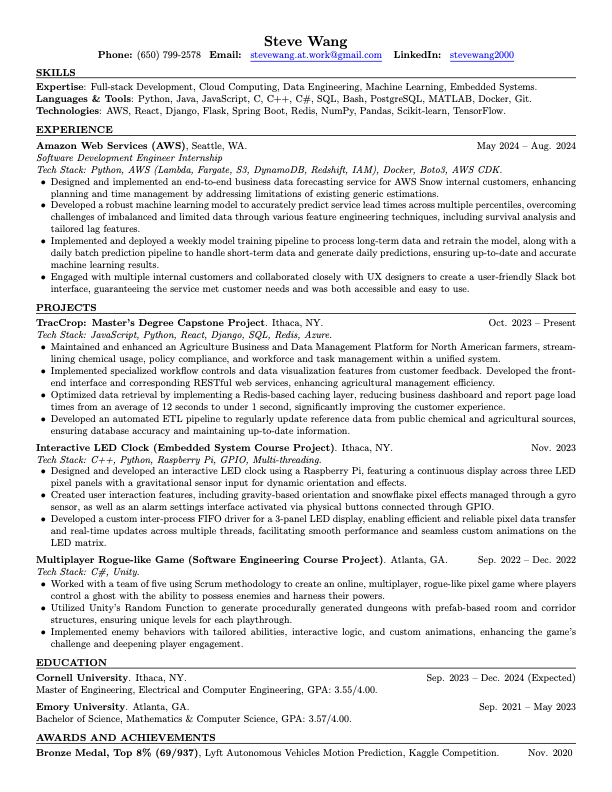
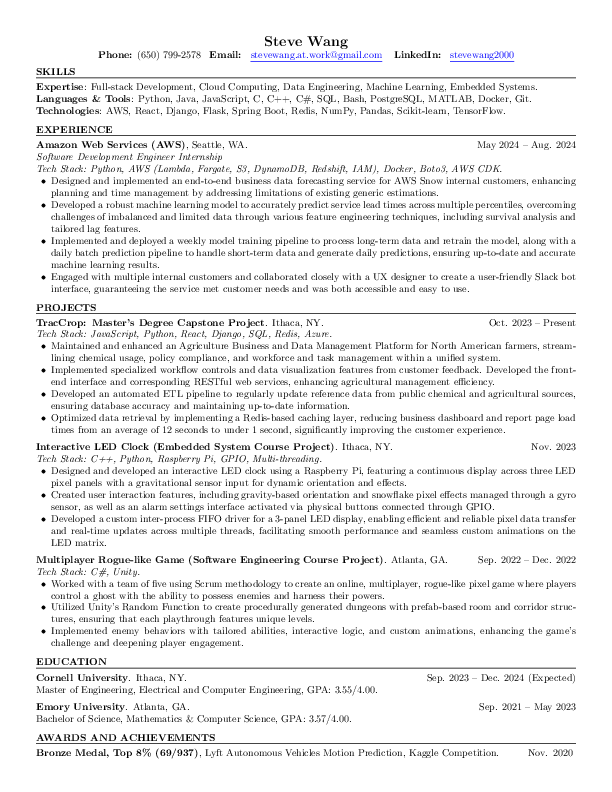
png white background

diff --git a/main.tex b/main.tex
@@ -6,11 +6,13 @@
 % Packages
 \usepackage[utf8]{inputenc} % For input encoding
 \usepackage[letterpaper, margin=0.5in]{geometry}
+\usepackage[colorlinks=true, urlcolor=blue]{hyperref} % Hyperlinks setup 
 \usepackage{enumitem} % For customizing itemize environments
 \usepackage{calc} % For length calculation 
 
-% Automatically underline all hyperlinks
-\usepackage[colorlinks=true, urlcolor=blue]{hyperref} % Hyperlinks setup 
+% Set the spacing values
+\setlength{\parskiplength}{0.5em} 
+\setlength{\sectionskiplength}{0.75em}
 
 % Begin document
 \begin{document}
@@ -41,7 +43,7 @@
         \item Designed and implemented an end-to-end business data forecasting service for AWS Snow internal customers, enhancing planning and time management by addressing limitations of existing generic estimations.
         \item Developed a robust machine learning model to accurately predict service lead times across multiple percentiles, overcoming challenges of imbalanced and limited data through various feature engineering techniques, including survival analysis and tailored lag features. 
         \item Implemented and deployed a weekly model training pipeline to process long-term data and retrain the model, along with a daily batch prediction pipeline to handle short-term data and generate daily predictions, ensuring up-to-date and accurate machine learning results. 
-        \item Engaged with multiple internal customers and collaborated closely with UX designers to create a user-friendly Slack bot interface, guaranteeing the service met customer needs and was both accessible and easy to use.
+        \item Engaged with multiple internal customers and collaborated closely with a UX designer to create a user-friendly Slack bot interface, guaranteeing the service met customer needs and was both accessible and easy to use.
     }
     
 \end{customsection}
@@ -54,8 +56,8 @@
     {
         \item Maintained and enhanced an Agriculture Business and Data Management Platform for North American farmers, streamlining chemical usage, policy compliance, and workforce and task management within a unified system.
         \item Implemented specialized workflow controls and data visualization features from customer feedback. Developed the front-end interface and corresponding RESTful web services, enhancing agricultural management efficiency.
-        \item Optimized data retrieval by implementing a Redis-based caching layer, reducing business dashboard and report page load times from an average of 12 seconds to under 1 second, significantly improving the customer experience.
         \item Developed an automated ETL pipeline to regularly update reference data from public chemical and agricultural sources, ensuring database accuracy and maintaining up-to-date information.
+        \item Optimized data retrieval by implementing a Redis-based caching layer, reducing business dashboard and report page load times from an average of 12 seconds to under 1 second, significantly improving the customer experience.
     }
 
     \project{Interactive LED Clock (Embedded System Course Project)}{Ithaca, NY}{Nov. 2023}
@@ -70,7 +72,7 @@
     {C\#, Unity}
     {
         \item Worked with a team of five using Scrum methodology to create an online, multiplayer, rogue-like pixel game where players control a ghost with the ability to possess enemies and harness their powers.
-        \item Utilized Unity’s Random Function to generate procedurally generated dungeons with prefab-based room and corridor structures, ensuring unique levels for each playthrough.
+        \item Utilized Unity’s Random Function to create procedurally generated dungeons with prefab-based room and corridor structures, ensuring that each playthrough features unique levels. 
         \item Implemented enemy behaviors with tailored abilities, interactive logic, and custom animations, enhancing the game's challenge and deepening player engagement.
     }
 

diff --git a/resume_templates.tex b/resume_templates.tex
@@ -4,10 +4,6 @@
 \newlength{\parskiplength}
 \newlength{\sectionskiplength}
 
-% Set the spacing values
-\setlength{\parskiplength}{0.5em} 
-\setlength{\sectionskiplength}{0.75em}
-
 % Custom Hyper Link Skill
 \newcommand{\customlink}[2]{
     \href{#1}{\underline{#2}}
